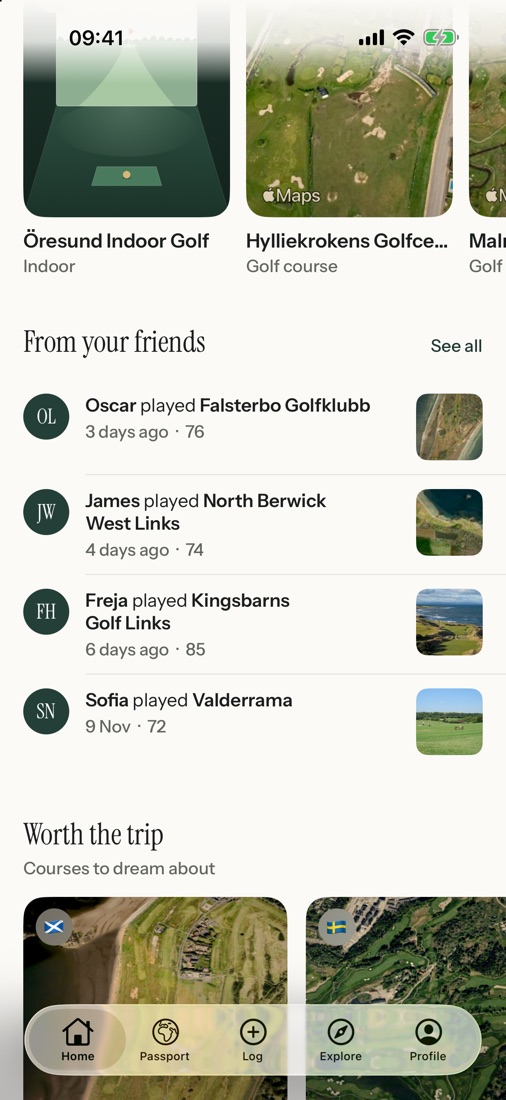
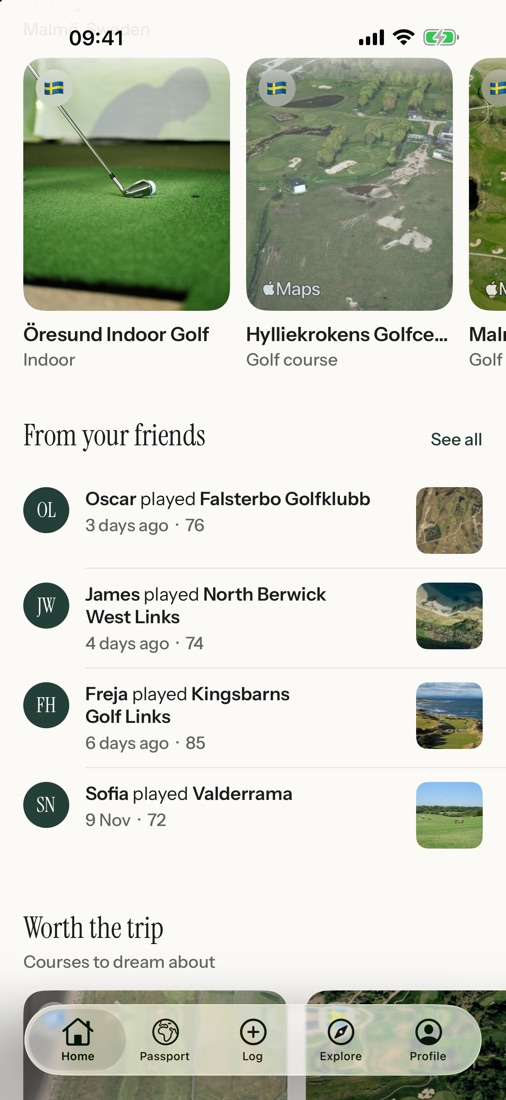
Your golf, beautifully kept; scorecards in privacy and copy; new screens

diff --git a/index.html b/index.html
@@ -3,14 +3,14 @@
 <head>
 <meta charset="utf-8">
 <meta name="viewport" content="width=device-width, initial-scale=1">
-<title>Pinzo — Where golf takes you</title>
-<meta name="description" content="Relive every course you've played, keep the rounds that mattered, and find the ones you've always dreamed of. Pinzo is a beautiful, private golf passport for iPhone.">
+<title>Pinzo — Your golf, beautifully kept</title>
+<meta name="description" content="Every course you've played, every round and every score, and the places you still dream of, in one beautiful passport. A private golf passport for iPhone.">
 <link rel="icon" href="/assets/favicon-64.png">
 <link rel="apple-touch-icon" href="/assets/apple-touch-icon.png">
 <link rel="preload" href="/assets/fonts/InstrumentSerif-Regular.ttf" as="font" type="font/ttf" crossorigin>
 <link rel="stylesheet" href="/assets/site.css">
-<meta property="og:title" content="Pinzo — Where golf takes you">
-<meta property="og:description" content="Relive every course you've played, keep the rounds that mattered, and find the ones you've always dreamed of.">
+<meta property="og:title" content="Pinzo — Your golf, beautifully kept">
+<meta property="og:description" content="Every course you've played, every round and every score, and the places you still dream of, in one beautiful passport.">
 <meta property="og:image" content="https://pinzo.golf/assets/cards/passport.jpg">
 <meta property="og:url" content="https://pinzo.golf/">
 <meta name="theme-color" content="#FBFAF7">
@@ -36,8 +36,8 @@
     </svg>
     <div class="wrap hero2-grid">
       <div class="hero2-copy reveal">
-        <h1>Where golf<br>takes you.</h1>
-        <p class="lead">Relive every course you've played, keep the rounds that mattered, and find the ones you've always dreamed of.</p>
+        <h1>Your golf,<br>beautifully kept.</h1>
+        <p class="lead">Every course you've played, every round and every score, and the places you still dream of, in one beautiful passport.</p>
         <div class="cta">
           <span class="badge">Coming soon to the App Store</span>
           <span class="cta-note">Free on iPhone</span>
@@ -79,11 +79,11 @@
   <section class="split wrap reveal">
     <div class="split-copy">
       <h2>Every round, a memory.</h2>
-      <p>Add photos and a note to any round. Years later, Pinzo brings it back on the day: <i>“3 years ago today, you played Royal County Down.”</i> Finish a round with your Apple Watch and it can remind you to log it.</p>
+      <p>Add photos of the day, a note and a scan of your scorecard to any round. Years later, Pinzo brings it back on the day: <i>“3 years ago today, you played Royal County Down.”</i> Finish a round with your Apple Watch and it can remind you to log it.</p>
     </div>
     <div class="split-media pair">
       <figure class="device"><img src="/assets/screens/home.jpg" alt="Home, with the latest round at Royal County Down"></figure>
-      <figure class="device"><img src="/assets/screens/log.jpg" alt="Logging a round: course, date, score, photos and a note"></figure>
+      <figure class="device"><img src="/assets/screens/log.jpg" alt="Logging a round: course, date, score, scorecard, photos and a note"></figure>
     </div>
   </section>
 

diff --git a/privacy/index.html b/privacy/index.html
@@ -39,7 +39,7 @@
   <h3>Location</h3>
   <p>If you choose “Use my location”, Pinzo asks iOS for your approximate location once, to suggest courses near you. We round it to roughly one kilometre and keep it as your home area in your profile. You can instead type a town, or change or clear it at any time in Settings. Pinzo never tracks your location in the background.</p>
   <h3>Photos</h3>
-  <p>Pinzo only sees the photos you pick with the iOS photo picker — for a round or your profile picture. They stay on your device and in your iCloud; location and camera details are removed when you add them.</p>
+  <p>Pinzo only sees the photos you pick with the iOS photo picker, for a round, its scorecard or your profile picture. If you scan a scorecard, Pinzo uses the camera only while the scanner is open. Photos and scorecards stay on your device and in your iCloud and are never shared with friends; location and camera details are removed when you add them.</p>
 
   <h3>Notifications</h3>
   <p>If you turn them on, Pinzo creates reminders on your iPhone: a nudge to log a round after Apple Health records a golf workout, occasional “on this day” memories, and alerts when you collect a stamp. They're scheduled by your phone; we don't run a notification server or receive any information from them.</p>
@@ -58,7 +58,7 @@
     <li>your scores, only if you turn on <b>Share my scores</b>;</li>
     <li>a notification when you log a new round, if they've turned those on.</li>
   </ul>
-  <p>Your photos, notes, profile picture, bio, bucket list, home location, playing partners and Apple Health data are never shared or uploaded.</p>
+  <p>Your photos, scorecards, notes, profile picture, bio, bucket list, home location, playing partners and Apple Health data are never shared or uploaded.</p>
   <h3>What we store</h3>
   <p>To make this work we store: an anonymous account identifier from Sign in with Apple; the profile details and round facts listed above; who you're friends with; invites you've created; anyone you've blocked; reports you make; and, if you allow friend notifications, a push token for your device. This is held by our database provider, Supabase (servers in Ireland), under a data processing agreement. Notifications are delivered by Apple's push notification service.</p>
   <p>Our legal basis is providing the service you asked for. We keep this data until you leave Friends. Reports are kept for up to a year so we can act on them.</p>

diff --git a/terms/index.html b/terms/index.html
@@ -50,6 +50,7 @@
     <li>Course facts from Wikidata (CC0).</li>
     <li>Course photos from Wikimedia Commons under their stated licences, credited on each course page.</li>
     <li>Maps and satellite imagery © Apple.</li>
+    <li>Indoor golf photo from Unsplash, under the Unsplash Licence.</li>
   </ul>
 
   <h2>Availability</h2>
